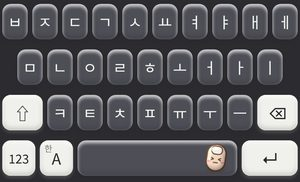
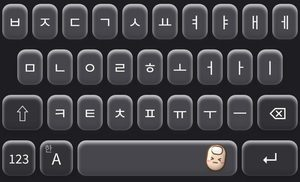
2026.11.11-5 모노 → 블랙
Claude-Session: https://claude.ai/code/session_01GvSCgEXELCVfxACkb9NKF6

diff --git a/Shared/KBTheme.swift b/Shared/KBTheme.swift
@@ -130,11 +130,11 @@ struct KBTheme {
                 pressKey: c(239, 227, 214), pressSpecial: c(234, 82, 101),
                 text: c(170, 40, 60), specialText: .white,
                 accent: c(255, 196, 90), depth: 4, radius: 10, short: "체리", group: "retro"),
-        KBTheme(id: "rt_mono", name: "모노",
-                bg: c(44, 44, 48), key: c(78, 78, 86), special: c(240, 240, 236),
-                pressKey: c(73, 73, 80), pressSpecial: c(220, 220, 217),
-                text: c(246, 246, 242), specialText: c(40, 40, 44),
-                depth: 4, radius: 10, short: "모노", group: "retro"),
+        KBTheme(id: "rt_mono", name: "블랙",
+                bg: c(30, 30, 34), key: c(70, 70, 76), special: c(50, 50, 55),
+                pressKey: c(92, 92, 98), pressSpecial: c(70, 70, 76),
+                text: c(246, 246, 242), specialText: c(246, 246, 242),
+                depth: 4, radius: 10, short: "블랙", group: "retro"),
         KBTheme(id: "rt_milk", name: "딸기 우유",
                 bg: c(255, 206, 220), key: c(255, 255, 255), special: c(255, 116, 156),
                 pressKey: c(239, 239, 239), pressSpecial: c(234, 106, 143),
